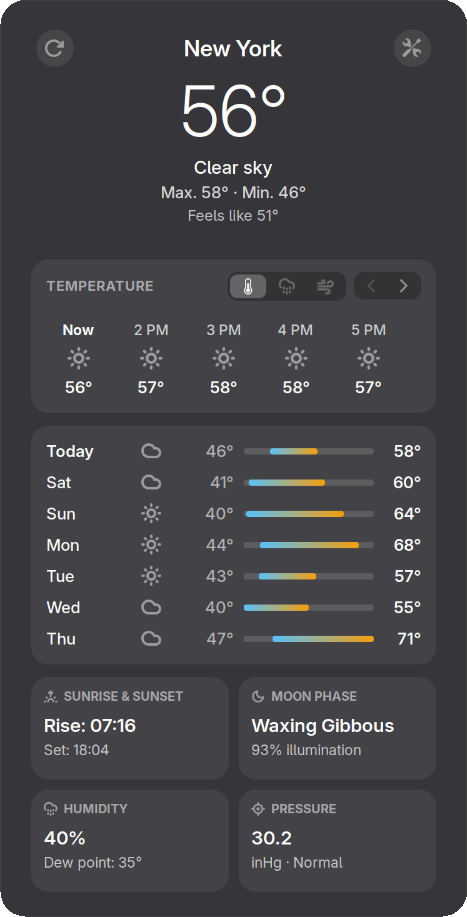
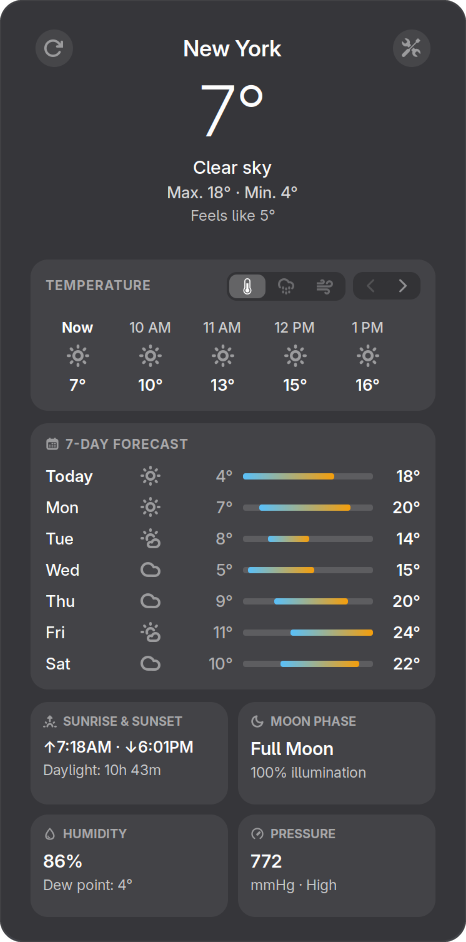
docs(screenshots): update popup screenshot with clean cutout and sync feature descriptions

diff --git a/index.html b/index.html
@@ -562,9 +562,9 @@
 
       <div class="feature-card">
         <div class="feature-icon">📊</div>
-        <div class="feature-title" data-i18n="f4Title">7-Day Gradient &amp; Live Marker</div>
+        <div class="feature-title" data-i18n="f4Title">7-Day Gradient Visualizer</div>
         <div class="feature-desc" data-i18n="f4Desc">
-          Native St horizontal temperature range bars with a live current-temperature indicator dot on Today's row for instant visual context.
+          Native St horizontal temperature range bars showing weekly minimum and maximum temperature spans at a glance.
         </div>
       </div>
 
@@ -621,8 +621,8 @@
         f2Desc: 'At-a-glance 2×2 grid displaying Sunrise/Sunset times with computed Daylight duration, astronomical Moon Phase, Dew Point, and Barometric Pressure level.',
         f3Title: 'Keyless Multi-Provider Engine',
         f3Desc: 'Choose between Open-Meteo (with ECMWF IFS, DWD ICON, NOAA GFS models), MET Norway, or US NOAA NWS. Zero accounts, zero API keys, zero telemetry.',
-        f4Title: '7-Day Gradient & Live Marker',
-        f4Desc: 'Native St horizontal temperature range bars with a live current-temperature indicator dot on Today\'s row for instant visual context.',
+        f4Title: '7-Day Gradient Visualizer',
+        f4Desc: 'Native St horizontal temperature range bars showing weekly minimum and maximum temperature spans at a glance.',
         f5Title: 'Smart Location Discovery',
         f5Desc: 'Automatic detection via system GeoClue or public IP fallback, plus instant localized city search with coordinate subtitles in Libadwaita preferences.',
         f6Title: 'Full Localization & Units',
@@ -648,8 +648,8 @@
         f2Desc: 'Наочна сітка 2×2: час сходу і заходу сонця з розрахунком тривалості дня, астрономічна фаза Місяця, точка роси та рівень атмосферного тиску.',
         f3Title: 'Кілька провайдерів без ключів',
         f3Desc: 'Обирайте між Open-Meteo (моделі ECMWF IFS, DWD ICON, NOAA GFS), MET Norway або NOAA NWS. Жодних облікових записів, API-ключів чи телеметрії.',
-        f4Title: 'Градієнтна шкала та маркер «Зараз»',
-        f4Desc: 'Нативні градієнтні смуги температурного діапазону на 7 днів із білим маркером поточної температури на сьогоднішньому дні.',
+        f4Title: '7-денна градієнтна шкала',
+        f4Desc: 'Нативні градієнтні смуги температурного діапазону на 7 днів, що наочно показують мінімум та максимум тижня.',
         f5Title: 'Розумний пошук та геолокація',
         f5Desc: 'Автоматичне визначення через системний GeoClue або за IP-адресою, а також зручний пошук міст рідною мовою у налаштуваннях.',
         f6Title: 'Повна локалізація та одиниці',
@@ -675,8 +675,8 @@
         f2Desc: 'Наглядная сетка 2×2: время восхода и заката с расчётом продолжительности светового дня, астрономическая фаза Луны, точка росы и уровень давления.',
         f3Title: 'Несколько провайдеров без ключей',
         f3Desc: 'Выбирайте между Open-Meteo (модели ECMWF IFS, DWD ICON, NOAA GFS), MET Norway или NOAA NWS. Никаких аккаунтов, API-ключей и телеметрии.',
-        f4Title: 'Градиентная шкала и маркер «Сейчас»',
-        f4Desc: 'Нативные градиентные полосы температурного диапазона на 7 дней с белой точкой текущей температуры на сегодняшнем дне.',
+        f4Title: '7-дневная градиентная шкала',
+        f4Desc: 'Нативные градиентные полосы температурного диапазона на 7 дней, наглядно показывающие минимум и максимум недели.',
         f5Title: 'Умный поиск и геолокация',
         f5Desc: 'Автоматическое определение через системный GeoClue или по IP-адресу, а также удобный поиск городов на родном языке в настройках.',
         f6Title: 'Полная локализация и единицы',

diff --git a/README.md b/README.md
@@ -33,7 +33,7 @@ curl -fsSL https://raw.githubusercontent.com/OleksiyM/GnomeMeteo/main/install.sh
 
 * **Visual Hierarchy:** Clean 3-tier main condition block (prominent temperature, condition name, daily max/min range, feels-like).
 * **Segmented Metric Switcher:** Instantly toggle between **Temperature**, **Precipitation Probability**, and **Wind Speed** across both hourly and 7-day views.
-* **Native Libadwaita Gradients & Live Marker:** Smooth daily temperature range bars built with native St gradient syntax, including a live current-temperature dot on Today's bar.
+* **Native Libadwaita Gradients:** Smooth daily temperature range bars built with native St gradient syntax.
 * **Compact 2×2 Details Grid:** At-a-glance cards with monochrome symbolic icons for:
   * 🌅 **Sunrise & Sunset** (`↑ Rise  ↓ Set`) with computed **Daylight duration**
   * 🌔 **Moon Phase** (astronomically computed with illumination %)
